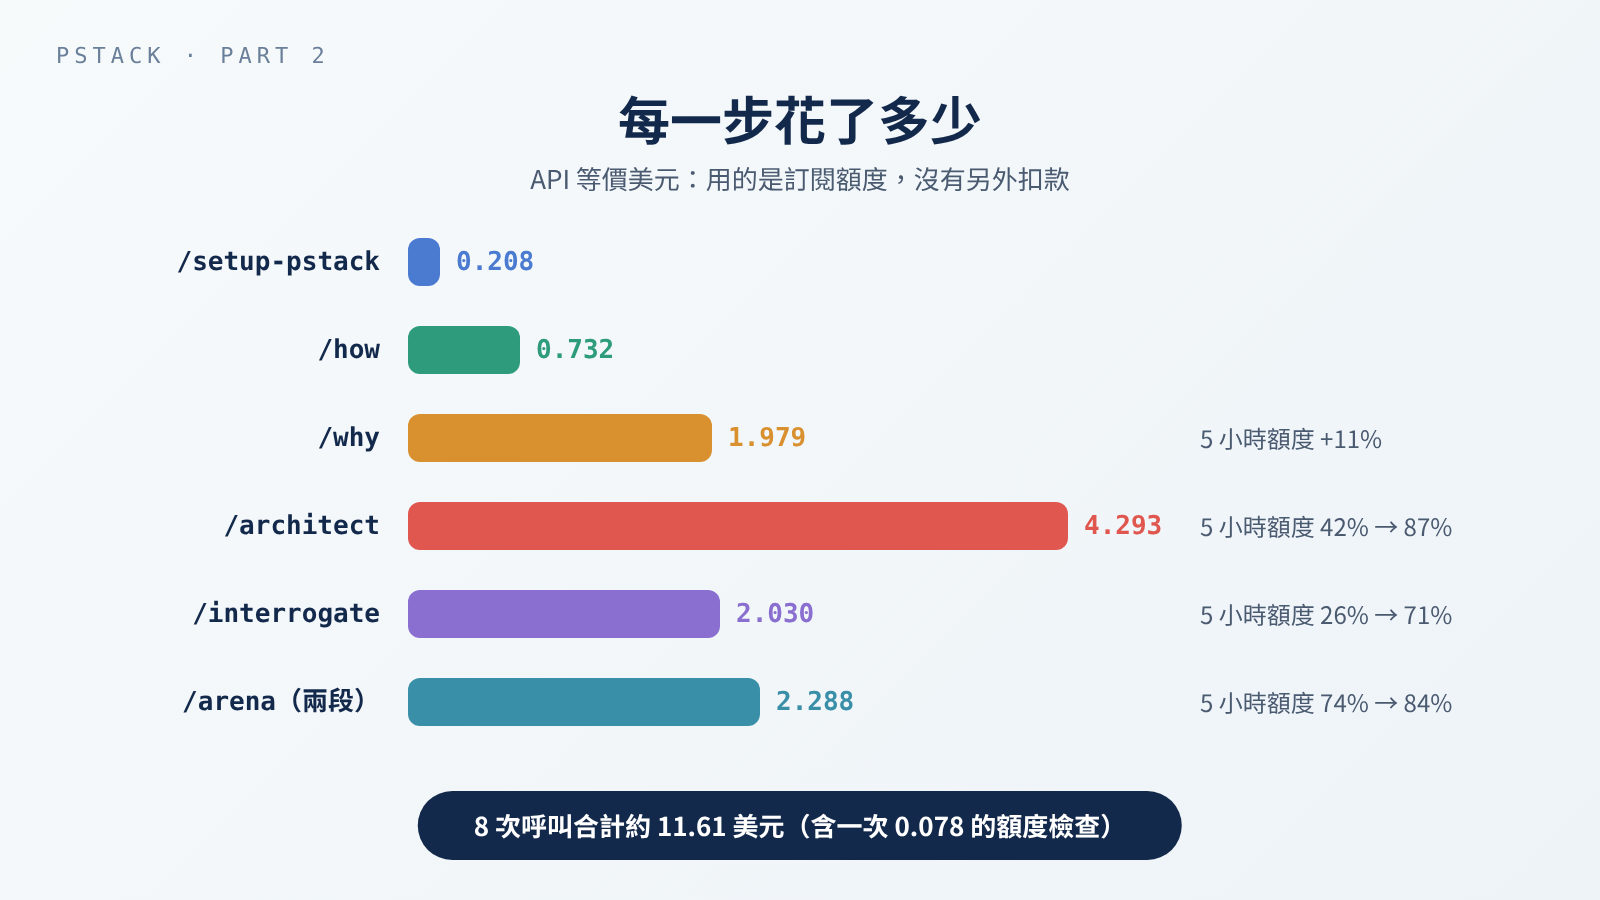
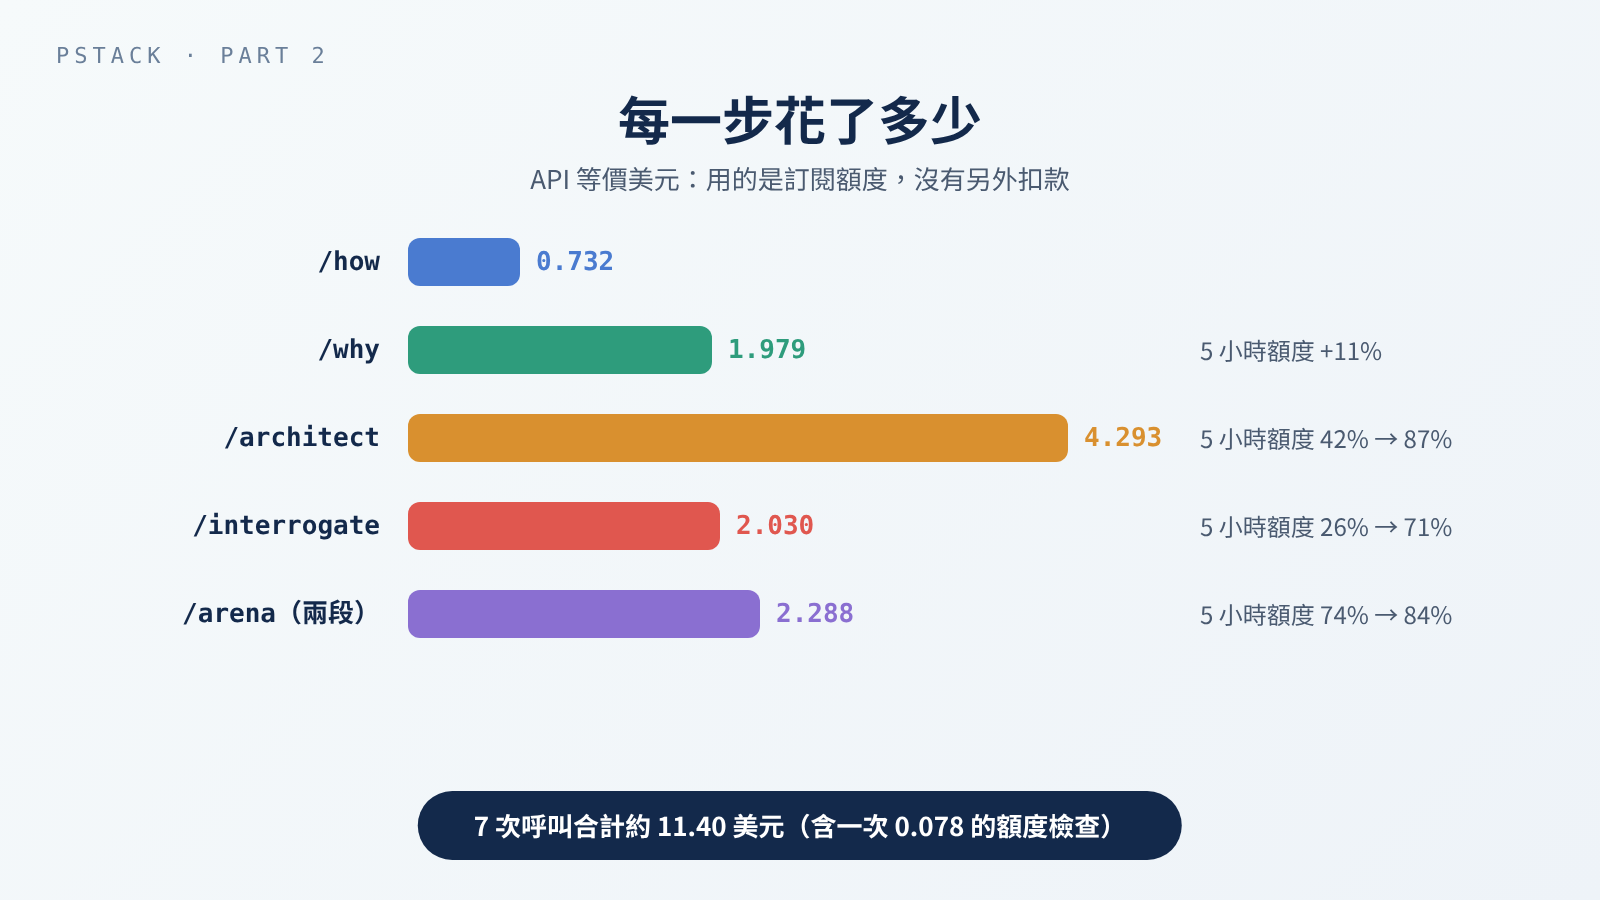
pstack-understand-design: remove model-settings setup narrative, drop setup-pstack cost row, recompute totals (7 calls, USD 11.40)

diff --git a/_posts/en/2026-10-23-pstack-understand-design.md b/_posts/en/2026-10-23-pstack-understand-design.md
@@ -37,28 +37,11 @@ In Claude Code, commands carry the plugin name in front, as in `/pstack:how`. I 
 > | Skills | 56 | 57 |
 > | Claude Code | 2.1.306 | 2.1.309 |
 >
-> The only change from `0.15.29` to `0.15.30` is a new skill, `statechart`. None of the parts this post uses changed: how, why, teach, architect, interrogate, arena, swarm, setup-pstack, poteto-mode, and the Claude Code adapter notes. When I checked at 21:28 on 2026-10-23 (Taipei time), `main` in `cursor/plugins` had two more pstack commits after `eb4db2b` (`7698375` and `4ec7ffa`). Both only touch `statechart`, and the version is still `0.15.30`.
+> The only change from `0.15.29` to `0.15.30` is a new skill, `statechart`. None of the parts this post uses changed: how, why, teach, architect, interrogate, arena, swarm, poteto-mode, and the Claude Code adapter notes. When I checked at 21:28 on 2026-10-23 (Taipei time), `main` in `cursor/plugins` had two more pstack commits after `eb4db2b` (`7698375` and `4ec7ffa`). Both only touch `statechart`, and the version is still `0.15.30`.
 {: .prompt-warning }
 
-> **How this was tested:** I ran every test myself between 15:41 and 21:20 on 2026-10-23 (Taipei time), on my Mac (macOS 27.0, Claude Code 2.1.309), using Claude Code's non-interactive mode, `claude -p` (with stream-json output), not by hand in the interactive interface. The permission allowlist was the same as in Part 1, plus read-only `git blame`: no writes to the global settings under `~/.claude/`, no `git push`, `gh`, `curl`, or web access, and no `--dangerously-skip-permissions`. Every prompt said not to commit. The practice project's HEAD stayed at `579a745` the whole time, and drafts went only into `.pstack-scratch/`, a folder outside version control. I wrote the prompts in Chinese; the ones below are translations. **Nothing was tested in Cursor.**
+> **How this was tested:** I ran every test myself between 15:42 and 21:20 on 2026-10-23 (Taipei time), on my Mac (macOS 27.0, Claude Code 2.1.309), using Claude Code's non-interactive mode, `claude -p` (with stream-json output), not by hand in the interactive interface. The permission allowlist was the same as in Part 1, plus read-only `git blame`: no writes to the global settings under `~/.claude/`, no `git push`, `gh`, `curl`, or web access, and no `--dangerously-skip-permissions`. Every prompt said not to commit. The practice project's HEAD stayed at `579a745` the whole time, and drafts went only into `.pstack-scratch/`, a folder outside version control. I wrote the prompts in Chinese; the ones below are translations. **Nothing was tested in Cursor.**
 {: .prompt-tip }
-
-## First, Fix the Model Settings
-
-[Part 1](/posts/pstack-install-routing/) found that this account can't use the fable model named in the settings file: any subagent sent to it got an HTTP 429 error right away. So I started by running `/setup-pstack` again:
-
-```text
-/pstack:setup-pstack Background: this account can't use fable. Subagents sent to fable immediately got HTTP 429 "Fable 5.1 requires usage credits. Switch to another model to continue." So please redo the setup with no role using fable, keeping the budget at medium. You decide what replaces fable, and explain why. This time you may only write ~/.claude/rules/pstack-models.md; don't change any other file.
-```
-
-It proposed these changes:
-
-- The four single roles that had used fable (bug fixing, performance, hillclimb, and the hardest tasks) move to `opus high`.
-- The panels, where several models work together (the arena runners and judge pool, the architect runners, and the interrogate reviewers), simply drop fable without a replacement, going from 4 models to 3 (opus, sonnet, haiku). Its reasoning: a panel is valuable because different models check one another, and an extra opus would only cost more. To keep 4, you could add an `opus high` to each.
-
-But it couldn't save the file. Claude Code treats `~/.claude/rules/pstack-models.md` as a sensitive file and replied "Claude requested permissions to edit … which is a sensitive file." Even when the allowlist names this file, Claude Code wants a confirmation in the interface, and `-p` mode has no way to confirm, so the write was blocked. In Part 1, the write was stopped by a rule I set on purpose; this time Claude Code blocked it on its own.
-
-It suggested two ways forward: click Allow when the permission prompt appears, or overwrite the file myself. At 15:54 I wrote the proposed content into the file by hand, word for word. So setup-pstack proposed this configuration, and I wrote it in by hand; it didn't save it itself. In every run after that, the models and effort levels it dispatched matched this file. (`/how` and `/why` had already finished before the write, and their roles are opus high in both the old and new settings; the arena runner count of 2 was my own override.) This step took 25 seconds and USD 0.208 in API-equivalent cost.
 
 ## Understanding the Code: /how and /why
 
@@ -263,26 +246,23 @@ The guide also suggests answering design questions that can't be settled by buil
 
 I observed all of the following in this run's environment (account, versions, `-p` mode, permission allowlist). They won't necessarily happen with another account or in the interactive interface.
 
-**1. setup-pstack can't write its own settings file.** Claude Code treats `~/.claude/rules/pstack-models.md` as a sensitive file and wants an interactive confirmation even when the allowlist permits it. `-p` mode has no way to confirm, so the write is refused outright.
+**1. Subagents' Bash is often blocked, and the main conversation makes up for it.** In architect, interrogate, and arena alike, some subagent Bash calls were refused, and each time the main conversation did the checks itself. In Part 1, I saw background subagents unable to run Bash at all; this time the `/why` investigators running in the background could run git commands, though a few commands were still refused. When blocked, they switched to Read, Grep, or simpler commands and noted in their reports what they hadn't actually run.
 
-**2. Subagents' Bash is often blocked, and the main conversation makes up for it.** In architect, interrogate, and arena alike, some subagent Bash calls were refused, and each time the main conversation did the checks itself. In Part 1, I saw background subagents unable to run Bash at all; this time the `/why` investigators running in the background could run git commands, though a few commands were still refused. When blocked, they switched to Read, Grep, or simpler commands and noted in their reports what they hadn't actually run.
+**2. Effort followed the settings this time.** Every subagent dispatched this time ran at effort high, matching the settings file; in Part 1, both the bug fix and the feature used low.
 
-**3. Effort followed the settings this time.** Every subagent dispatched this time ran at effort high, matching the settings file; in Part 1, both the bug fix and the feature used low.
+**3. `/interrogate` sat idle in `-p` mode.** After sending the reviewers, the main conversation used `ScheduleWakeup` to set a 1,200-second wake-up as a fallback. The compute time of all its reply turns adds up to about 200 seconds, yet the whole run took 22 minutes 35 seconds. It looks as if the reviewers had reported long before, and it still waited for the 20-minute wake-up to finish. This is inferred from the timing; no per-event timestamps confirm it.
 
-**4. `/interrogate` sat idle in `-p` mode.** After sending the reviewers, the main conversation used `ScheduleWakeup` to set a 1,200-second wake-up as a fallback. The compute time of all its reply turns adds up to about 200 seconds, yet the whole run took 22 minutes 35 seconds. It looks as if the reviewers had reported long before, and it still waited for the 20-minute wake-up to finish. This is inferred from the timing; no per-event timestamps confirm it.
+**4. Architect didn't send `/how`.** SKILL.md calls for `/how` in Phase A; this time the main conversation read the code and wrote `grounding.md` itself, without sending an explainer.
 
-**5. Architect didn't send `/how`.** SKILL.md calls for `/how` in Phase A; this time the main conversation read the code and wrote `grounding.md` itself, without sending an explainer.
-
-**6. The plugin updated itself between the two posts.** See the version note at the top.
+**5. The plugin updated itself between the two posts.** See the version note at the top.
 
 ## Usage and Cost
 
-![Bar chart of API-equivalent dollars per step: /setup-pstack 0.208, /how 0.732, /why 1.979, /architect 4.293, /interrogate 2.030, and /arena's two parts 2.288, with 5-hour quota changes on the right and a total of about USD 11.61 for 8 calls at the bottom](cost-per-step.en.png){: width="800" height="450" }
+![Bar chart of API-equivalent dollars per step: /how 0.732, /why 1.979, /architect 4.293, /interrogate 2.030, and /arena's two parts 2.288, with 5-hour quota changes on the right and a total of about USD 11.40 for 7 calls at the bottom](cost-per-step.en.png){: width="800" height="450" }
 _Architect cost the most; interrogate and architect each took 45% of the 5-hour quota._
 
 | Run | Command | Time (Taipei) | Result | API equivalent (USD) |
 | --- | --- | --- | --- | --- |
-| s1 | `/pstack:setup-pstack` | 15:41 | Write blocked; I wrote it in by hand at 15:54 | 0.208 |
 | a1 | `/pstack:how` | 15:42–15:45 | All correct | 0.732 |
 | a2 | `/pstack:why` | 15:45–15:48 | Mostly right; one line number off by one | 1.979 |
 | b1 | `/pstack:architect with checkpoint` | 15:55–16:08 | 3 runners plus a sonnet judge; chose C1; stopped at the checkpoint | 4.293 |
@@ -291,15 +271,15 @@ _Architect cost the most; interrogate and architect each took 45% of the 5-hour 
 | b3 | `/pstack:arena` | 21:13 | Frame found my spec contradicted itself and stopped to ask | 0.242 |
 | b3b | Arena continued (`--resume`) | 21:14–21:19 | I chose option 1; both candidates converged; 17 tests passed | 2.046 |
 
-The 8 calls total about USD 11.61. That's the `total_cost_usd` Claude Code reports, an **amount converted at API prices**. This run used my subscription quota, and nothing extra was charged.
+The 7 calls total about USD 11.40. That's the `total_cost_usd` Claude Code reports, an **amount converted at API prices**. This run used my subscription quota, and nothing extra was charged.
 
-As for quota, the 5-hour usage rose from 20% to 87% over the first stretch (s1 to b1) and reset at 19:50. After that, interrogate took it from 26% to 71%, and arena's two parts from 74% to 84%; nothing was ever refused. The 7-day usage went from 67% to 91% over the day, but the rise from 76% to 83% between 16:08 and 20:39 came from my own everyday use of Claude Code, not from these tests.
+As for quota, the 5-hour usage was 20% before testing began, rose to 87% by the end of architect, and reset at 19:50. After that, interrogate took it from 26% to 71%, and arena's two parts from 74% to 84%; nothing was ever refused. The 7-day usage went from 67% before testing to 91%, but the rise from 76% to 83% between 16:08 and 20:39 came from my own everyday use of Claude Code, not from these tests.
 
 ## Before You Change Code, Get Evidence You Can See
 
 The answer from this run is concrete: have the AI hand over something you can check, and only then let it compare designs. `/how` gave a path with line numbers plus caveats I could check one by one against the code; `/why` kept direct evidence apart from inference and said plainly what it couldn't find. In design, `/architect` had three models sketch drafts with genuinely different structures, then stopped and listed what was mine to decide; `/interrogate` had three more reviewers find holes in the sketch, including in architect's own reasoning; and `/arena` ran the tests before dispatching anyone and caught the contradiction in the spec I wrote.
 
-The price is time and quota. From `/how` to `/arena`, this run came to about USD 11.61 in API-equivalent cost, and architect alone used nearly half the 5-hour quota. For a small change, `/how` alone may be enough; save `/architect with checkpoint` for features that touch several modules. Whichever you run, spot-check a few of its conclusions yourself at the end. The next post picks up from there: after the code is written, how to prove it works before merging.
+The price is time and quota. From `/how` to `/arena`, including one quota check, this run came to about USD 11.40 in API-equivalent cost, and architect alone used nearly half the 5-hour quota. For a small change, `/how` alone may be enough; save `/architect with checkpoint` for features that touch several modules. Whichever you run, spot-check a few of its conclusions yourself at the end. The next post picks up from there: after the code is written, how to prove it works before merging.
 
 ## Further Reading
 
